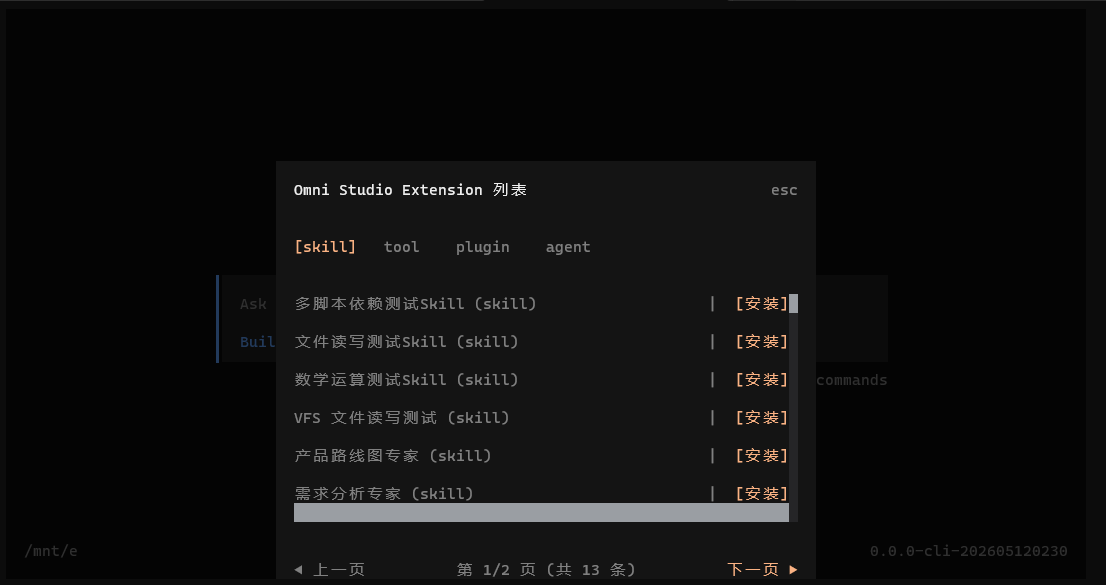
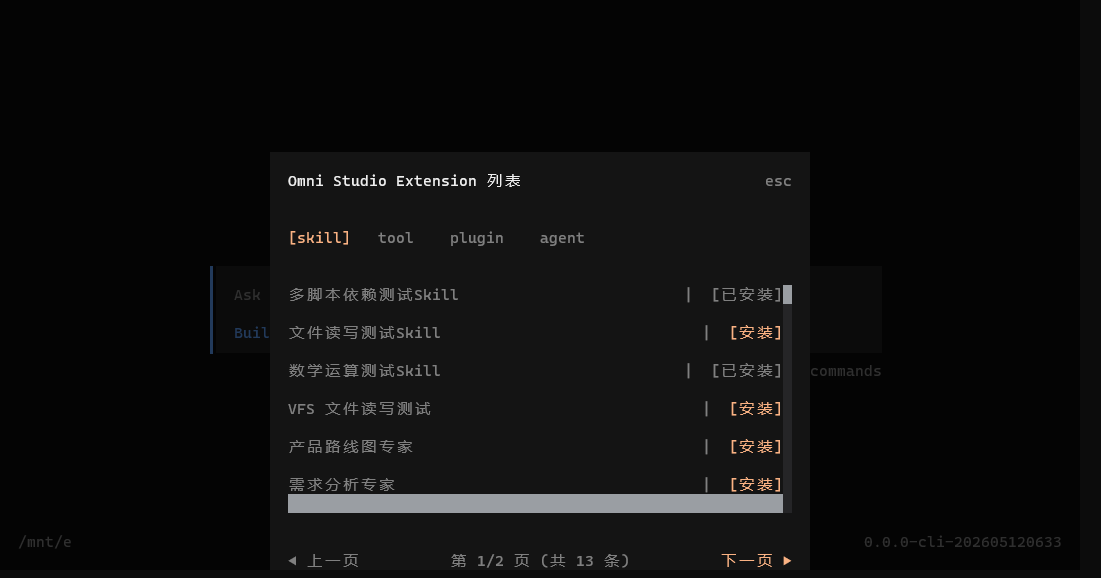
fix(tui): align maxHeight to row height to prevent gray bar at bottom
- ScrollableList: adjust scrollHeight to integer multiples of line height
  (floor((maxH - 1) / 2) * 2 + 1) to prevent last row from being partially
  truncated and rendering as a gray bar
- Add paddingBottom={1} to scrollbox content for extra buffer
- Keep scrollbar hidden (visible: false); scrollbox already has vertical
  scrollbar on the right by default
- [ 安装 ] width unified with [已安装] via extra spaces
- Install success no longer shows yellow transition; updates localSlugs
  directly to show gray [已安装] immediately

diff --git a/packages/opencode/src/cli/cmd/tui/component/dialog-omni-studio.tsx b/packages/opencode/src/cli/cmd/tui/component/dialog-omni-studio.tsx
@@ -91,14 +91,15 @@ function TypeSwitchBar(props: {
 
 /**
  * 带条件 scrollbox 的列表容器。
- * 当内容高度超过 maxHeight 时启用 scrollbox 并显示滚动条；否则直接渲染内容。
+ * 当内容高度超过 maxHeight 时启用 scrollbox；否则直接渲染内容。
+ * maxHeight 调整为行高的整数倍，避免最后一行被部分截断出现灰色横条。
  */
 function ScrollableList(props: { maxHeight: number; itemCount: number; children: any }) {
   const needsScroll = () => Math.max(props.itemCount * 2 + 1, 3) > props.maxHeight
   return (
     <Show when={needsScroll()} fallback={<box gap={1}>{props.children}</box>}>
-      <scrollbox maxHeight={props.maxHeight} scrollbarOptions={{ visible: true }}>
-        <box gap={1}>{props.children}</box>
+      <scrollbox maxHeight={props.maxHeight} scrollbarOptions={{ visible: false }}>
+        <box gap={1} paddingBottom={1}>{props.children}</box>
       </scrollbox>
     </Show>
   )
@@ -320,8 +321,10 @@ function OmniStudioLocalView(props: { dialog: DialogContext; onBack: () => void 
   const scrollHeight = createMemo(() => {
     const itemCount = pagedExtensions().length
     const contentHeight = Math.max(itemCount * 2 + 1, 3)
-    const maxH = Math.max(3, Math.floor(dimensions().height * 0.4))
-    return Math.min(contentHeight, maxH)
+    const maxH = Math.max(3, Math.floor(dimensions().height * 0.6))
+    /** 调整为行高的整数倍（每行占2单位 + 1单位gap），避免最后一行被部分截断出现灰色横条。 */
+    const adjustedMaxH = Math.floor((maxH - 1) / 2) * 2 + 1
+    return Math.min(contentHeight, adjustedMaxH)
   })
 
   /** 渲染单行本地扩展条目，包含名称和行内操作按钮。 */
@@ -486,8 +489,7 @@ function OmniStudioListView(props: { dialog: DialogContext; onBack: () => void }
         ),
       )
       setInstallingSlug(null)
-      setInstallResult({ slug: ext.slug, ok: true, msg: "已安装" })
-      /** 更新本地已安装集合，使按钮在结果清除后仍显示 [已安装]。 */
+      /** 直接更新本地已安装集合，按钮会立即显示灰色 [已安装]，无黄色过渡。 */
       setLocalSlugs((prev) => {
         const next = new Set(prev)
         next.add(`${ext.type}:${ext.slug}`)
@@ -496,8 +498,8 @@ function OmniStudioListView(props: { dialog: DialogContext; onBack: () => void }
     } catch (e) {
       setInstallingSlug(null)
       setInstallResult({ slug: ext.slug, ok: false, msg: "失败" })
+      setTimeout(() => setInstallResult(null), 3000)
     }
-    setTimeout(() => setInstallResult(null), 3000)
   }
 
   const pageText = () => {
@@ -521,8 +523,10 @@ function OmniStudioListView(props: { dialog: DialogContext; onBack: () => void }
     const l = marketList()
     const itemCount = l.kind === "ok" ? l.data.length : 0
     const contentHeight = Math.max(itemCount * 2 + 1, 3)
-    const maxH = Math.max(3, Math.floor(dimensions().height * 0.4))
-    return Math.min(contentHeight, maxH)
+    const maxH = Math.max(3, Math.floor(dimensions().height * 0.6))
+    /** 调整为行高的整数倍（每行占2单位 + 1单位gap），避免最后一行被部分截断出现灰色横条。 */
+    const adjustedMaxH = Math.floor((maxH - 1) / 2) * 2 + 1
+    return Math.min(contentHeight, adjustedMaxH)
   })
 
   /** 判断远程扩展是否已在本地安装。 */
@@ -558,7 +562,7 @@ function OmniStudioListView(props: { dialog: DialogContext; onBack: () => void }
           </Show>
           <Show when={!isInstalled(ext)}>
             <text fg={theme.primary} attributes={TextAttributes.BOLD} onMouseUp={() => setPendingSlug(ext.slug)}>
-              [安装]
+              [ 安装 ]
             </text>
           </Show>
         </Show>
